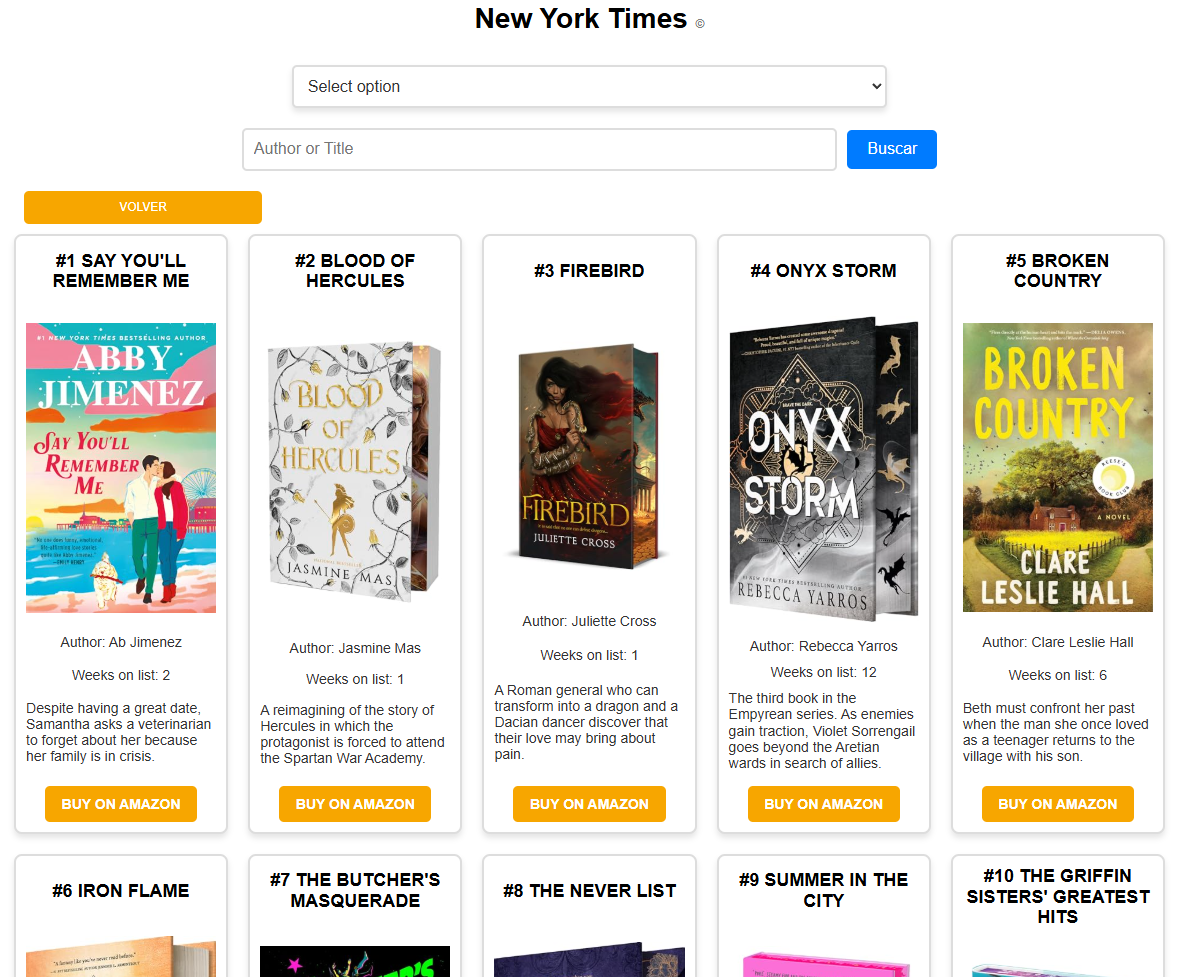
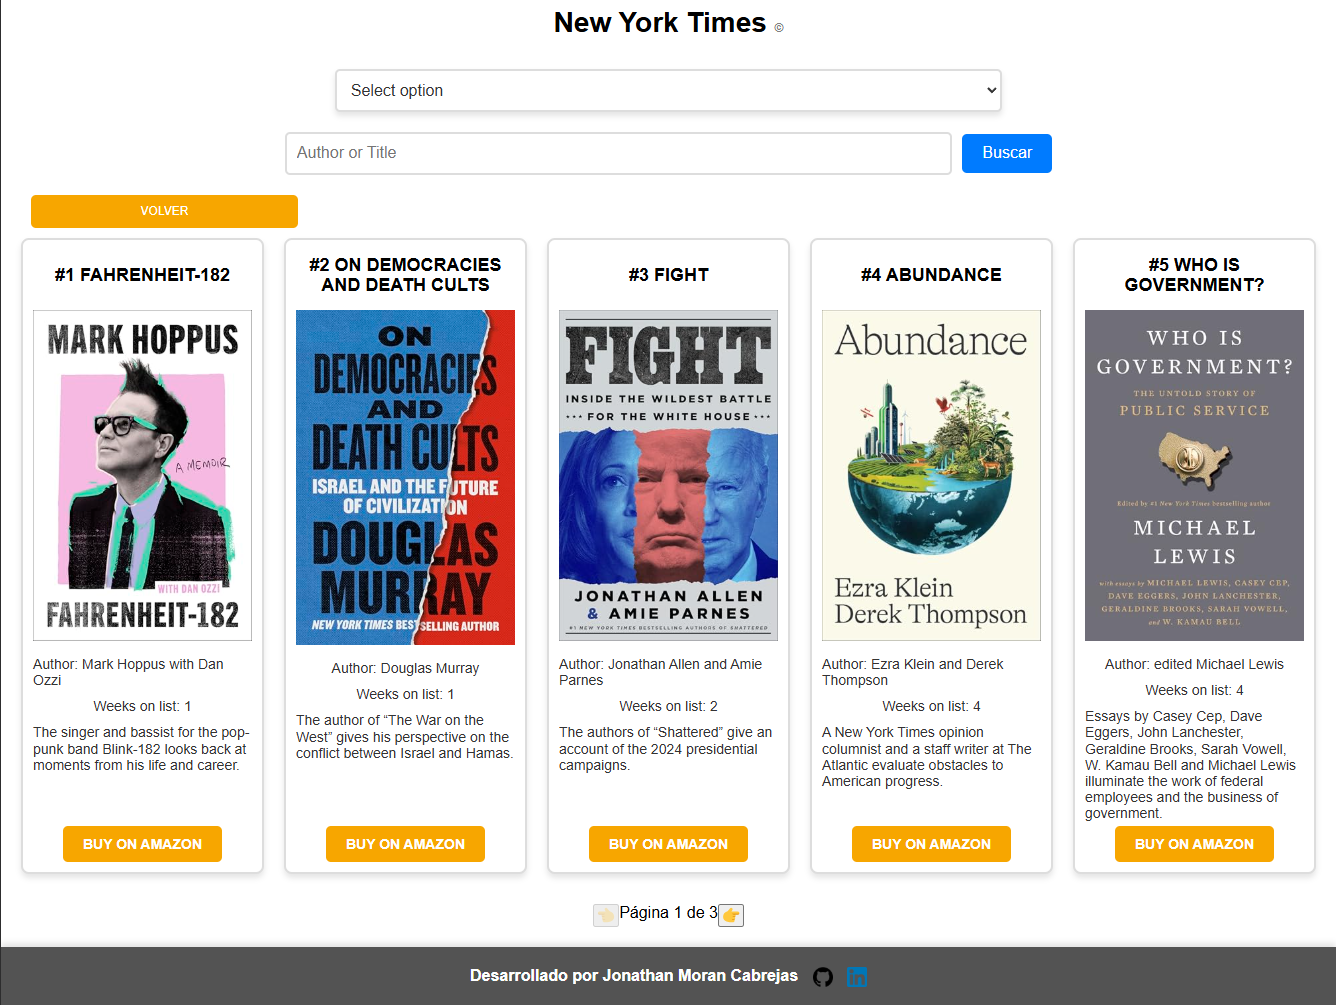
add/paginacion

diff --git a/css/style.css b/css/style.css
@@ -47,8 +47,20 @@ article {
   padding: 10px;
 }
 
-article #tarjetasLista,
-article #tarjetasBooks {
+ #tarjetasLista {
+  flex: 0 1 100%; /* Ocupan todo el ancho en dispositivos móviles */
+  display: flex;
+  flex-direction: column;
+  justify-content: space-between;
+  align-items: center;
+  padding: 10px;
+  border: 2px solid #ddd;
+  border-radius: 8px;
+  background-color: var(--color-blanco);
+  box-shadow: 0 4px 6px rgba(0, 0, 0, 0.1);
+}
+/* Estilo para las tarjetas */
+#tarjetasBooks {
   flex: 0 1 100%; /* Ocupan todo el ancho en dispositivos móviles */
   display: flex;
   flex-direction: column;
@@ -61,8 +73,8 @@ article #tarjetasBooks {
   box-shadow: 0 4px 6px rgba(0, 0, 0, 0.1);
 }
 
-article #tarjetasLista h1,
-article #tarjetasBooks h2 {
+ #tarjetasLista h1,
+ #tarjetasBooks h2 {
   font-size: 18px;
   margin: 0 0 10px 0;
   color: var(--color-fondo);
@@ -73,22 +85,21 @@ article #tarjetasBooks h2 {
   justify-content: center;
 }
 
-article #tarjetasLista p,
-article #tarjetasBooks p {
+ #tarjetasLista p,
+ #tarjetasBooks p {
   font-size: 14px;
   margin: 5px 0;
   color: #333;
 }
 
-article #tarjetasBooks img {
-  width: 100%;
-  max-width: 200px;
+/* Imagen dentro de la tarjeta */
+#tarjetasBooks img {
+  max-width: 100%;
   height: auto;
-  display: block;
-  margin: 10px auto;
+  margin-bottom: 10px;
 }
 
-article #tarjetasLista button {
+ #tarjetasLista button {
   width: 80%;
   margin: 10px auto 0;
   background-color: var(--botonReadMore);
@@ -101,28 +112,31 @@ article #tarjetasLista button {
   transition: background-color 0.3s ease;
 }
 
-article #tarjetasBooks button {
-  background-color: var(--botonBuyAmazon);
-  width: 80%;
-  margin: 10px auto 0;
-  color: var(--color-blanco);
+/* Botón "Buy on Amazon" */
+#tarjetasBooks button {
+  margin-top: auto; /* Empuja el botón hacia el final de la tarjeta */
+  align-self: center; /* Centra el botón horizontalmente */
+  padding: 10px 20px;
+  background-color: var(--botonBuyAmazon); /* Color de fondo */
+  color: #fff;
   border: none;
-  padding: 10px;
   border-radius: 5px;
   cursor: pointer;
   font-size: 14px;
   transition: background-color 0.3s ease;
 }
-
-article #tarjetasLista button:hover,
-article #tarjetasBooks button:hover {
-  background-color: #0056b3;
+ #tarjetasLista button:hover {
+  background-color: var(--botonreadMore); /* Cambia el color al pasar el ratón */
 }
-
-article #tarjetasBooks button a {
+/* Enlace dentro del botón */
+#tarjetasBooks button a {
   text-decoration: none;
-  color: var(--color-blanco);
+  color: #fff;
   font-weight: bold;
+}
+/* Hover para el botón */
+#tarjetasBooks button:hover {
+  background-color:var(--botonBuyAmazon); /* Cambia el color al pasar el ratón */
 }
 
 footer {
@@ -257,6 +271,11 @@ body:has(:is(html):last-child) footer {
   font-size: 18px;
   margin-top: 10px;
   text-align: center;
+}
+#controles-paginacion{
+  display: flex;
+  justify-content: center;
+  margin: 20px 0;
 }
 
 @keyframes spin {

diff --git a/js/script.js b/js/script.js
@@ -307,6 +307,7 @@ const readMore = () => {
       });
       filterBooks(data);
       searchTiltleAuthor(data);
+      implementarPaginacion();
       // Event listener | Botón volver atrás
       document.querySelector("#back").addEventListener("click", async () => {
         document.getElementById("contenedor").innerHTML = "";
@@ -315,6 +316,78 @@ const readMore = () => {
     });
   });
 };
+const implementarPaginacion = () => {
+  const elementos = document.querySelectorAll("#NYT > section"); // Selecciona todas las entradas existentes
+  const elementosPorPagina = 5; // Número de elementos por página
+  let paginaActual = 1; // Página inicial
+  const totalPaginas = Math.ceil(elementos.length / elementosPorPagina);
+
+  // Crear los controles de paginación
+  const divControles = document.createElement("div");
+  divControles.id = "controles-paginacion";
+
+  const botonAtras = document.createElement("button");
+  botonAtras.id = "atras";
+  botonAtras.textContent = "👈";
+  botonAtras.disabled = true; // Deshabilitado inicialmente
+
+  const spanInformacion = document.createElement("span");
+  spanInformacion.id = "informacion-pagina";
+
+  const botonSiguiente = document.createElement("button");
+  botonSiguiente.id = "siguiente";
+  botonSiguiente.textContent = "👉";
+
+  divControles.appendChild(botonAtras);
+  divControles.appendChild(spanInformacion);
+  divControles.appendChild(botonSiguiente);
+
+  // Añadir los controles al DOM
+  const contenedor = document.getElementById("contenedor");
+  contenedor.appendChild(divControles);
+
+  // Función para mostrar los elementos de la página actual
+  const renderizarPagina = () => {
+    // Ocultar todos los elementos
+    elementos.forEach((elemento, index) => {
+      elemento.style.display = "none";
+      if (
+        index >= (paginaActual - 1) * elementosPorPagina &&
+        index < paginaActual * elementosPorPagina
+      ) {
+        elemento.style.display = "flex"; // Mostrar solo los elementos de la página actual
+        
+      }
+    });
+
+    // Actualizar la información de la página
+    spanInformacion.textContent = `Página ${paginaActual} de ${totalPaginas}`;
+
+    // Habilitar/deshabilitar botones según la página actual
+    botonAtras.disabled = paginaActual === 1;
+    botonSiguiente.disabled = paginaActual === totalPaginas;
+  };
+
+  // Event listener para el botón "Atrás"
+  botonAtras.addEventListener("click", () => {
+    if (paginaActual > 1) {
+      paginaActual--;
+      renderizarPagina();
+    }
+  });
+
+  // Event listener para el botón "Siguiente"
+  botonSiguiente.addEventListener("click", () => {
+    if (paginaActual < totalPaginas) {
+      paginaActual++;
+      renderizarPagina();
+    }
+  });
+
+  // Renderizar la primera página
+  renderizarPagina();
+};
+
 
 // Iniciar la aplicación
 document.addEventListener("DOMContentLoaded", async () => {

diff --git a/index.html b/index.html
@@ -6,7 +6,7 @@
     <link rel="stylesheet" href="./css/normalize.css" />
     <link rel="stylesheet" href="./css/style.css" />
 
-    <title>Document</title>
+    <title>New York Times</title>
   </head>
   <body>
     <header>

diff --git a/README.md b/README.md
@@ -12,9 +12,13 @@
   - Orden por **fecha de publicación** (ascendente y descendente).
 - 🔍 **Buscadores inteligentes**:
   - Búsqueda por **nombre de género**.
-  - Búsqueda por **autor y titulo**.
+  - Búsqueda por **autor y título**.
 - ✨ **Animaciones de carga** al aplicar filtros y búsquedas para mejorar la experiencia de usuario.
 - 📱 **Diseño responsive y Mobile First**, optimizado para todos los dispositivos.
+- 📄 **Paginación de resultados**:
+  - Muestra una cantidad limitada de libros por página, de 5 en 5.
+  - Navegación entre páginas mediante botones "Anterior" y "Siguiente".
+  - Mejora el rendimiento y la legibilidad al manejar listas largas.
 
 ## 🌐 Acceso
 
